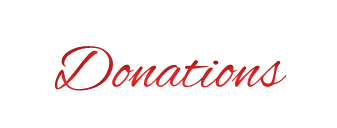
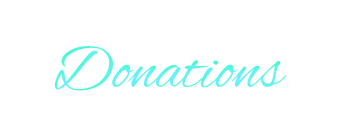
Modified the colors of the calendar of the Bookings section.

Changed region(s): [[0.1484, 0.3438, 0.8605, 0.7188], [0.2077, 0.6875, 0.2671, 0.7188]]

diff --git a/src/app/tabs/home/home.component.scss b/src/app/tabs/home/home.component.scss
@@ -91,6 +91,7 @@ nav ul li a:hover {
     background: #069370;
     color: #fff;
     transition: 0.5s;
+    border-radius: 5px;
 }
 
 @media (max-width: 1200px) {
@@ -170,6 +171,7 @@ nav ul li a:hover {
 .container .section:nth-child(2) {
     background: url('../../../assets/images/backgrounds/look-like-farcry-newdawn.jpg');
     background-size: cover;
+    overflow: hidden;
 }
 .container .section:nth-child(3) {
     background: url('../../../assets/images/backgrounds/blue-green-water.jpg');
@@ -215,11 +217,14 @@ nav ul li a:hover {
     flex-direction: column;
 }
 
+.donations-logo-container {
+    margin-bottom: 150px;
+}
+
 .donate-btn-container {
     display: flex;
     justify-content: center;
     height: 100%;
-    align-items: center;
 }
 
 .donate-btn-container .btn {
@@ -360,8 +365,8 @@ keu-calendar {
     top: 0;
     width: 80%;
     height: 100%;
-    background: white;
-    opacity: 0.5;
+    backdrop-filter: blur(5px);
+    opacity: 0.7;
     box-shadow: 0 15px 30px rgba(0, 0, 0, 0.01);
     border-radius: 20px;
     border: 1px solid rgba(255, 255, 255, 0.25);
@@ -370,7 +375,7 @@ keu-calendar {
     z-index: 0;
 }
 
-.bookings-logo-container {
+.section-logo-container {
     display: flex;
     width: 100%;
     justify-content: center;

diff --git a/src/app/tabs/home/home.component.html b/src/app/tabs/home/home.component.html
@@ -36,12 +36,15 @@
       </div>
     </div>
     <div class="section donations-section" id="donations-section">
+      <div class="donations-logo-container section-logo-container">
+        <img [src]="donationsLogo" alt="Donations Logo" class="donationsLogo">
+      </div>
       <div class="donate-btn-container">
         <div class="btn"><a href="https://www.paypal.com/paypalme/kirklandenterprisesu" target="_blank">Donate</a></div>
       </div>
     </div>
     <div class="section bookings-section" id="bookings-section">
-      <div class="bookings-logo-container">
+      <div class="bookings-logo-container section-logo-container">
         <img [src]="bookingsLogo" alt="Bookings Logo" class="bookingsLogo">
       </div>
       <div class="booking-calendar-container">

diff --git a/src/app/tabs/home/home.component.ts b/src/app/tabs/home/home.component.ts
@@ -18,6 +18,7 @@ export class HomeComponent implements OnInit {
   pswLogo: string = '../../../assets/images/logos/psw_logo.png'; //https://www.coolgenerator.com/png-text-generator
   roseBook: string = '../../../assets/images/misc/rose-book.png'; //https://www.pngwing.com/en/search?q=poetry
   bookingsLogo: string = '../../../assets/images/misc/Bookings2.png'; // https://maketext.io/
+  donationsLogo: string = '../../../assets/images/misc/Donations.png'; // https://maketext.io/
 
   public nav_items;
   public currentSelectedNavItemElement: number = 0;

diff --git a/src/styles.scss b/src/styles.scss
@@ -4,3 +4,15 @@ body {
     padding: 0;
     width: 100%;
 }
+
+.fc .fc-daygrid-day.fc-day-today {
+	background-color: rgba(255,239,219,0.7) !important;
+}
+
+.fc .fc-toolbar-title, .fc .fc-daygrid-day-number, .fc-col-header-cell-cushion {
+	color: white;
+}
+
+.fc-daygrid-day.fc-day-today .fc-daygrid-day-number {
+    color: saddlebrown;
+}
